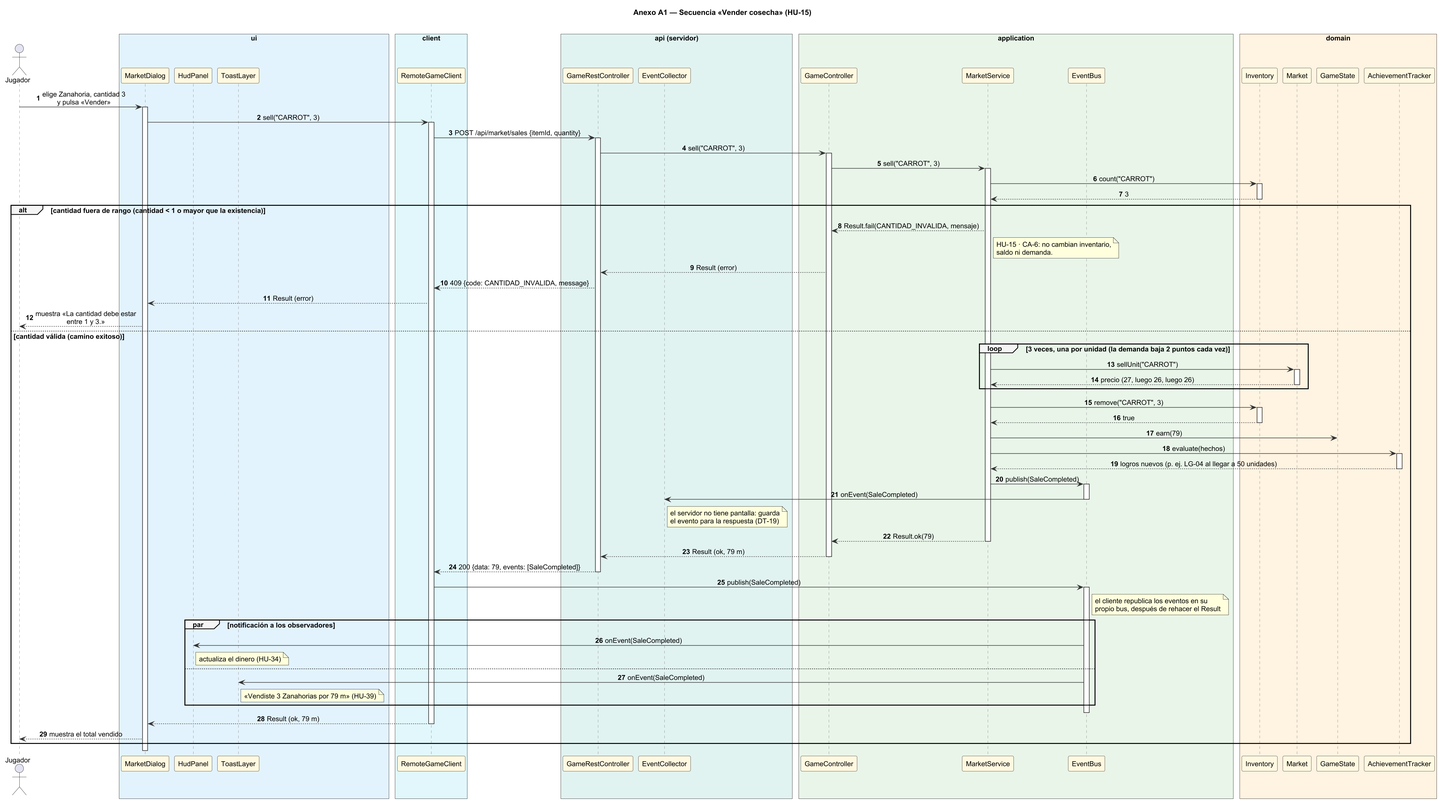
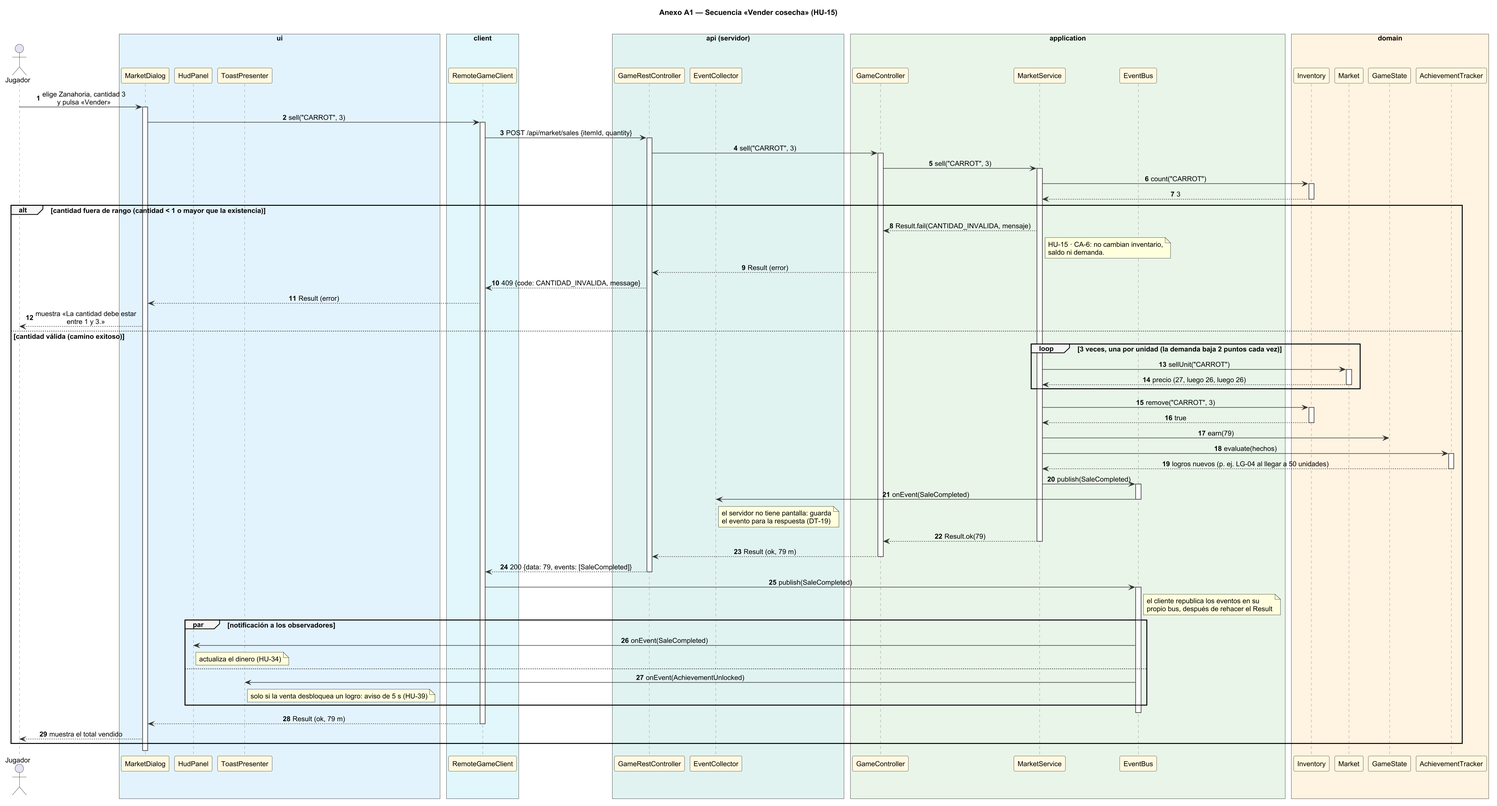
docs(architecture): record phase 5.6 results, extend the API reference, add ASSETS.md and update the logical and development diagrams

diff --git a/docs/TRAZABILIDAD.md b/docs/TRAZABILIDAD.md
@@ -17,7 +17,7 @@
 | RF-08 | Must | HU-10 | Tiempo y clima | CalendarStep, DayPhase, DayPipeline, DayReport, DayService, DayStep, EnergyResetStep, EventBus, ForecastStep, GameCommands, GameController, GameEvent, GameListener, GameMemento, GameRestController, GameScreenPresenter, GameState, Inventory, InventorySnapshot, RemoteGameClient | HU-10: 13 |
 | RF-09 | Must | HU-09 | Tiempo y clima | AutumnState, GameClock, GameDate, GameRules, Season, SeasonState, SpringState, SummerState, WinterState | HU-09: 8 |
 | RF-10 | Must | HU-11 | Tiempo y clima | AutumnState, FixedWeatherStrategy, GameRules, SeasonState, SeasonalWeatherStrategy, SpringState, StateRandom, SummerState, Weather, WeatherCycle, WeatherStrategy, WinterState | HU-11: 8 |
-| RF-11 | Must | HU-12 | Tiempo y clima | WeatherEffectsStep | HU-12: 6 |
+| RF-11 | Must | HU-12 | Tiempo y clima | FarmMap, WeatherEffectsStep | HU-12: 6 |
 | RF-12 | Must | HU-08 | Tiempo y clima | Energy, ErrorCode, GameRules, Messages | HU-08: 6 |
 | RF-13 | Must | HU-13 | Economía | GameRules, Inventory, ItemType | HU-13: 5 |
 | RF-14 | Must | HU-14 | Economía | BuyOfferView, GameCommands, GameController, GameEvent, GameRestController, GameState, Market, MarketDialog, MarketPresenter, MarketService, MarketView, RemoteGameClient | HU-14: 7 |
@@ -30,9 +30,9 @@
 | RF-21 | Must | HU-21 | Construcción y | Animal, AnimalCondition, AnimalSnapshot, AnimalState, AnimalView, AnimalsStep, DayReport, HealthyState, HungryState, SickState | HU-21: 5 |
 | RF-22 | Must | HU-22 | Construcción y | Animal, AnimalService, AnimalsStep, Building, BuildingActionView, BuildingDialog, BuildingPresenter, DayReport, GameCommands, GameController, GameRestController, GameScreen, GameScreenPresenter, HealthyState, HungryState, RemoteGameClient, SickState | HU-22: 10 |
 | RF-23 | Should | HU-23 | Construcción y | Animal, AnimalService, BuildingActionView, BuildingDialog, BuildingPresenter, GameCommands, GameController, GameRestController, GameScreen, RemoteGameClient, SickState | HU-23: 8 |
-| RF-24 | Could | HU-25 | Construcción y | pendiente | HU-25: 0 |
+| RF-24 | Could | HU-25 | Construcción y | FarmMap, FarmService, MapPanel, MapRenderer, Plot, PlotText, PlotView | HU-25: 11 |
 | RF-25 | Should | HU-24 | Construcción y | Building, BuildingService | HU-24: 5 |
-| RF-26 | Must | HU-26 | Progreso | Achievement, AchievementService, AchievementTracker, AchievementView, AchievementsDialog, AchievementsPresenter, AchievementsStep, AnimalService, BuildingService, DayReport, DayService, FarmService, GameCommands, GameController, GameDialogs, GameEvent, GameMemento, GameRestController, GameScreen, GameScreenPresenter, GameState, MarketService, ProgressFacts, ProgressSnapshot, RemoteGameClient | HU-26: 10 |
+| RF-26 | Must | HU-26 | Progreso | Achievement, AchievementService, AchievementTracker, AchievementView, AchievementsDialog, AchievementsPresenter, AchievementsStep, AnimalService, BuildingService, DayReport, DayService, FarmService, GameCommands, GameController, GameDialogs, GameEvent, GameMemento, GameRestController, GameScreen, GameScreenPresenter, GameState, MarketService, ProgressFacts, ProgressSnapshot, RemoteGameClient, ToastPresenter | HU-26: 10 |
 | RF-27 | Should | HU-27 | Progreso | AchievementService, SaveGameService | HU-27: 5 |
 | RF-28 | Must | HU-28 | Progreso | FarmMap, GameCommands, GameController, GameRestController, GameRules, GameSession, GameState, HudView, Plot, ProgressService, RemoteGameClient, Result, StartScreenPresenter, Terrain, ViewMapper | HU-28: 8 |
 | RF-29 | Must | HU-29 | Guardado | Checksum, GameCommands, GameController, GameDialogs, GameRestController, GameScreen, GameScreenPresenter, MongoSaveRepository, RemoteGameClient, SaveCodec, SaveGameService, SaveRepository, SaveSlotView, SlotsDialog, SlotsPresenter | HU-29: 9 |
@@ -45,10 +45,10 @@
 | RF-36 | Must | HU-36 | Interfaz de usuario | GameScreen, GameScreenPresenter, Shortcut, Texts, Tool, ToolBar, ToolModel | HU-36: 20 |
 | RF-37 | Must | HU-37 | Interfaz de usuario | GameCommands, GameController, GameDialogs, GameRestController, GameScreen, InventoryDialog, InventoryGrid, InventoryModel, InventoryView, MarketService, RemoteGameClient, SlotView | HU-37: 9 |
 | RF-38 | Must | HU-38 | Interfaz de usuario | AnimalOfferView, BuyOfferView, GameCommands, GameController, GameDialogs, GameRestController, GameScreen, MarketDialog, MarketPresenter, MarketService, MarketView, RemoteGameClient, SellOfferView | HU-38: 10 |
-| RF-39 | Should | HU-39 | Interfaz de usuario | pendiente | HU-39: 0 |
-| RF-40 | Could | HU-40 | Interfaz de usuario | pendiente | HU-40: 0 |
-| RF-41 | Could | HU-41 | Interfaz de usuario | pendiente | HU-41: 0 |
-| RF-42 | Should | HU-42 | Gestor de assets | pendiente | HU-42: 0 |
+| RF-39 | Should | HU-39 | Interfaz de usuario | GameScreen, GameScreenPresenter, OverlayPanel, ToastKind, ToastLayer, ToastPresenter, ToastQueue, ToastView | HU-39: 10 |
+| RF-40 | Could | HU-40 | Interfaz de usuario | GameScreen, MapPanel, MapRenderer, Particle, SeasonPalette, VisualEffects | HU-40: 8 |
+| RF-41 | Could | HU-41 | Interfaz de usuario | GameScreen, MapPanel, MapRenderer, VisualEffects | HU-41: 7 |
+| RF-42 | Should | HU-42 | Gestor de assets | AssetManager, MapRenderer | HU-42: 8 |
 
 ## 2. Por historia de usuario
 
@@ -65,7 +65,7 @@
 | HU-09 · Calendario y estaciones | 5.1 | Must | 4 | 8 | completa | AutumnState, GameClock, GameDate, GameRules, Season, SeasonState, SpringState, SummerState, WinterState |
 | HU-10 · Terminar el día | 5.1 | Must | 4 | 13 | completa | CalendarStep, DayPhase, DayPipeline, DayReport, DayService, DayStep, EnergyResetStep, EventBus, ForecastStep, GameCommands, GameController, GameEvent, GameListener, GameMemento, GameRestController, GameScreenPresenter, GameState, Inventory, InventorySnapshot, RemoteGameClient |
 | HU-11 · Sorteo de clima y pronóstico | 5.1 | Must | 4 | 8 | completa | AutumnState, FixedWeatherStrategy, GameRules, SeasonState, SeasonalWeatherStrategy, SpringState, StateRandom, SummerState, Weather, WeatherCycle, WeatherStrategy, WinterState |
-| HU-12 · Efectos del clima en los cultivos | 5.3 | Must | 4 | 6 | completa | WeatherEffectsStep |
+| HU-12 · Efectos del clima en los cultivos | 5.3 | Must | 4 | 6 | completa | FarmMap, WeatherEffectsStep |
 | HU-13 · Administrar el inventario | 5.1 | Must | 4 | 5 | completa | GameRules, Inventory, ItemType |
 | HU-14 · Comprar en el mercado | 5.3 | Must | 4 | 7 | completa | BuyOfferView, GameCommands, GameController, GameEvent, GameRestController, GameState, Market, MarketDialog, MarketPresenter, MarketService, MarketView, RemoteGameClient |
 | HU-15 · Vender con precio dinámico | 5.3 | Must | 6 | 12 | completa | CropPricing, FlatPricing, GameCommands, GameController, GameEvent, GameMemento, GameRestController, GameState, Market, MarketDialog, MarketPresenter, MarketService, MarketSnapshot, MarketStep, MarketView, PricingStrategy, RemoteGameClient, SellOfferView |
@@ -78,8 +78,8 @@
 | HU-22 · Producción y recolección | 5.4 | Must | 4 | 10 | completa | Animal, AnimalService, AnimalsStep, Building, BuildingActionView, BuildingDialog, BuildingPresenter, DayReport, GameCommands, GameController, GameRestController, GameScreen, GameScreenPresenter, HealthyState, HungryState, RemoteGameClient, SickState |
 | HU-23 · Curar animales enfermos | 5.4 | Should | 4 | 8 | completa | Animal, AnimalService, BuildingActionView, BuildingDialog, BuildingPresenter, GameCommands, GameController, GameRestController, GameScreen, RemoteGameClient, SickState |
 | HU-24 · Construir y usar el almacén | 5.5 | Should | 4 | 5 | completa | Building, BuildingService |
-| HU-25 · Construir y usar el invernadero | 5.6 | Could | 5 | 0 | sin pruebas | pendiente |
-| HU-26 · Registrar logros | 5.5 | Must | 5 | 10 | completa | Achievement, AchievementService, AchievementTracker, AchievementView, AchievementsDialog, AchievementsPresenter, AchievementsStep, AnimalService, BuildingService, DayReport, DayService, FarmService, GameCommands, GameController, GameDialogs, GameEvent, GameMemento, GameRestController, GameScreen, GameScreenPresenter, GameState, MarketService, ProgressFacts, ProgressSnapshot, RemoteGameClient |
+| HU-25 · Construir y usar el invernadero | 5.6 | Could | 5 | 11 | completa | FarmMap, FarmService, MapPanel, MapRenderer, Plot, PlotText, PlotView |
+| HU-26 · Registrar logros | 5.5 | Must | 5 | 10 | completa | Achievement, AchievementService, AchievementTracker, AchievementView, AchievementsDialog, AchievementsPresenter, AchievementsStep, AnimalService, BuildingService, DayReport, DayService, FarmService, GameCommands, GameController, GameDialogs, GameEvent, GameMemento, GameRestController, GameScreen, GameScreenPresenter, GameState, MarketService, ProgressFacts, ProgressSnapshot, RemoteGameClient, ToastPresenter |
 | HU-27 · Desbloquear edificios por logros | 5.5 | Should | 4 | 5 | completa | AchievementService, SaveGameService |
 | HU-28 · Iniciar nueva partida | 5.1 | Must | 4 | 8 | completa | FarmMap, GameCommands, GameController, GameRestController, GameRules, GameSession, GameState, HudView, Plot, ProgressService, RemoteGameClient, Result, StartScreenPresenter, Terrain, ViewMapper |
 | HU-29 · Guardar partida | 5.5 | Must | 4 | 9 | completa | Checksum, GameCommands, GameController, GameDialogs, GameRestController, GameScreen, GameScreenPresenter, MongoSaveRepository, RemoteGameClient, SaveCodec, SaveGameService, SaveRepository, SaveSlotView, SlotsDialog, SlotsPresenter |
@@ -92,9 +92,9 @@
 | HU-36 · Herramientas y clic sobre parcelas | 5.2 | Must | 5 | 20 | completa | GameScreen, GameScreenPresenter, Shortcut, Texts, Tool, ToolBar, ToolModel |
 | HU-37 · Inventario en grilla | 5.3 | Must | 4 | 9 | completa | GameCommands, GameController, GameDialogs, GameRestController, GameScreen, InventoryDialog, InventoryGrid, InventoryModel, InventoryView, MarketService, RemoteGameClient, SlotView |
 | HU-38 · Mercado modal | 5.3 | Must | 4 | 10 | completa | AnimalOfferView, BuyOfferView, GameCommands, GameController, GameDialogs, GameRestController, GameScreen, MarketDialog, MarketPresenter, MarketService, MarketView, RemoteGameClient, SellOfferView |
-| HU-39 · Notificaciones (toasts) | 5.6 | Should | 4 | 0 | sin pruebas | pendiente |
-| HU-40 · Efectos visuales de estación y clima | 5.6 | Could | 4 | 0 | sin pruebas | pendiente |
-| HU-41 · Animaciones suaves | 5.6 | Could | 4 | 0 | sin pruebas | pendiente |
-| HU-42 · Carga de sprites con respaldo vectorial | 5.6 | Should | 4 | 0 | sin pruebas | pendiente |
+| HU-39 · Notificaciones (toasts) | 5.6 | Should | 4 | 10 | completa | GameScreen, GameScreenPresenter, OverlayPanel, ToastKind, ToastLayer, ToastPresenter, ToastQueue, ToastView |
+| HU-40 · Efectos visuales de estación y clima | 5.6 | Could | 4 | 8 | completa | GameScreen, MapPanel, MapRenderer, Particle, SeasonPalette, VisualEffects |
+| HU-41 · Animaciones suaves | 5.6 | Could | 4 | 7 | completa | GameScreen, MapPanel, MapRenderer, VisualEffects |
+| HU-42 · Carga de sprites con respaldo vectorial | 5.6 | Should | 4 | 8 | completa | AssetManager, MapRenderer |
 
-**Resumen:** 37 de 42 historias con todas sus pruebas; 327 pruebas `HUxx_` en total.
+**Resumen:** 42 de 42 historias con todas sus pruebas; 371 pruebas `HUxx_` en total.

diff --git a/docs/ARQUITECTURA.md b/docs/ARQUITECTURA.md
@@ -55,9 +55,9 @@ edu.ucc.farmsim
 ├─ GameInfo                             nombre visible y versión del juego (única constante, RNF-12)
 ├─ ui
 │  ├─ screens      MainWindow, StartScreen, GameScreen, ScreenRouter
-│  ├─ components   HudPanel, ToolBar, InventoryGrid, MarketDialog, SlotDialog, AchievementsDialog, ToastLayer
-│  ├─ render       MapPanel, MapRenderer, ParticleSystem, DayNightTint
-│  ├─ assets       AssetManager, VectorFallback
+│  ├─ components   HudPanel, ToolBar, InventoryGrid, MarketDialog, SlotsDialog, AchievementsDialog, ToastPresenter, ToastQueue, ToastLayer
+│  ├─ render       MapPanel, MapRenderer, VisualEffects, Particle, SeasonPalette
+│  ├─ assets       AssetManager (el respaldo vectorial vive en `MapRenderer`)
 │  └─ theme        Palette, Texts (cadenas de interfaz en español)
 ├─ client                               (cliente HTTP)
 │     RemoteGameClient (implementa GameCommands), EventDecoder
@@ -175,7 +175,7 @@ Como en la secuencia [A1](diagramas/A1_secuencia_vender_cosecha.png):
 | **5.3** Clima y economía | HU-12, 37, 14, 15, 16, 38 (**23**) | efectos del clima en el *pipeline*, `Market`, `PricingStrategy` ×2, `MarketService`, paso de mercado, `InventoryGrid`, `MarketDialog` | inventario en grilla y mercado modal | Strategy (precios) | **3** (helada), **4** (saturación) |
 | **5.4** Construcción y animales | HU-18 a 24, 17 (**23**) | `Building`, `BuildingBuilder` ×4, `BuildingDirector`, `Animal`, `AnimalState` ×3, `BuildingService`, `AnimalService`, paso de animales, `DaySummary` | diálogo de construcción y panel del edificio (alimentar, recolectar, curar) | Builder, State (animal) | **5** (animal enfermo no produce) |
 | **5.5** Progresión y persistencia | HU-26, 27, 29, 30, 31, 32 (**22**) | `AchievementTracker`, `ProgressFacts`, desbloqueos, `GameMemento`, `GameStateValidator`, `SaveRepository`, `MongoSaveRepository`, `SaveCodec`, `Checksum`, `SaveGameService`; **pruebas de rendimiento a plena carga** (HU-10 · CA-3, HU-29 · CA-4, HU-30 · CA-4) | diálogos de ranuras, logros y atajos `F5`/`F9` | Memento (completo: documento en MongoDB) | **6** (guardar → cargar idéntico), **7** (partida dañada o inexistente) |
-| **5.6** Interfaz visual y extras *(recortable)* | HU-39, 42, 25, 40, 41 (**19**) | `ToastLayer`, `AssetManager` y respaldo vectorial, invernadero, efectos (`ParticleSystem`, `DayNightTint`), animaciones con `Timer`; `docs/ASSETS.md`, README final y matriz de trazabilidad completa; decisión sobre FlatLaf | pulido visual | Observer (completado) | — |
+| **5.6** Interfaz visual y extras *(recortable)* | HU-39, 42, 25, 40, 41 (**19**) | `ToastQueue`, `ToastPresenter`, `ToastLayer`, `AssetManager` y respaldo vectorial, invernadero, efectos (`VisualEffects`, `Particle`, `SeasonPalette`), animaciones con `Timer`; `docs/ASSETS.md`, README final y matriz de trazabilidad completa; decisión sobre FlatLaf | pulido visual | Observer (completado) | — **(hecha)** |
 
 **Qué se actualiza al cerrar cada fase:** el diagrama de clases si aparecen clases nuevas con responsabilidad estructural, el de desarrollo si cambia un paquete o una dependencia (lo comprueba `tools/check_diagrams.py`) y la matriz de trazabilidad (RF → HU → diagrama → clases → pruebas).
 
@@ -448,3 +448,40 @@ Ajustes surgidos al implementar: (1) `Main` se declara como capa «Composition»
 | HU-29 · CA-2 | la prueba contra un MongoDB real que rechaza o no responde (la simulada sí está) | cuando haya MongoDB |
 
 **Diagramas:** `03_vista_logica` y `04_vista_desarrollo` incluyen `AchievementService`, `GameStateValidator`, `SaveCodec`, `Checksum`, `SlotInfo` y sus dependencias (`domain.game → crop`, `domain.save → time`); las seis vistas se volvieron a renderizar. `check_diagrams.py` y `check_imports.py` terminan sin errores.
+
+## 17. Estado de la Fase 5.6 (interfaz visual y extras)
+
+**Historias cerradas (5 historias, 19 puntos):** HU-25, 39, 40, 41 y 42, más los criterios que esperaban al invernadero (HU-10 · CA-3, HU-29 · CA-4 y HU-30 · CA-4 con los 9 cultivos protegidos). `python tools/traceability.py --upto 5.6` termina sin errores. Con esta fase **las 42 historias están implementadas**.
+
+| Resultado | Valor |
+|---|---|
+| Pruebas | 486 en verde y 2 omitidas con aviso (las de MongoDB real) |
+| Cobertura de líneas (JaCoCo) | **dominio 97,3 %**, **aplicación 98,4 %**, infraestructura 96,1 %, UI 91,5 %, API 96,6 %, cliente 94,0 % (barrera: 70 % en dominio y aplicación) |
+| Patrones aplicados | Observer completado: `ToastPresenter` (`ConcreteObserver`, registrado en `patterns.txt`) |
+| Rendimiento | un cuadro con partículas activas tarda menos de 33 ms (≥ 30 FPS, `HU40_ca4`); la plena carga ahora incluye los 9 cultivos del invernadero |
+| API | `PlotView` añade `sheltered` (ver [`API.md`](API.md) v0.5); no hay rutas nuevas |
+| Verificadores | `check_hu.py`, `check_diagrams.py`, `check_imports.py` y `traceability.py` terminan sin errores |
+
+**Decisiones tomadas al implementar:**
+
+| # | Decisión | Motivo |
+|---|---|---|
+| D-52 | Una parcela «protegida» se deduce del edificio que la cubre (`Plot.isSheltered()`); no se guarda nada nuevo en el memento y el validador acepta cultivos sobre parcelas de un invernadero | RN-22 y RN-32: el estado ya contiene el edificio |
+| D-53 | Dentro del invernadero la tolerancia sin riego es siempre 3 días y regar cuesta 1 de energía aunque el clima sea Sequía; la lluvia no riega, la helada y el cambio de estación no marchitan | RN-22 · «inmunes a Helada y Sequía» y HU-25 · CA-3 y CA-4 |
+| D-54 | Los avisos son un Observer: `ToastPresenter` escucha el bus (logros y cambio de estación) y recibe de `GameScreenPresenter` los rechazos y avisos propios; `ToastQueue` (sin Swing, con reloj inyectado) guarda 4 visibles y el resto en cola; `ToastLayer` solo dibuja y no captura el ratón. La barra de estado se mantiene | HU-39; la barra sigue siendo el rastro del último mensaje |
+| D-55 | Un aviso dura 3 s (5 s el de logro) a opacidad completa y luego se desvanece 0,4 s; el tiempo cuenta desde que se hace visible, no desde que se publicó | HU-39 · CA-1 y CA-3 |
+| D-56 | `VisualEffects` (paleta de estación, lluvia, nieve, tinte de noche, cuadros de animales, crecimiento de cultivos) es un modelo sin Swing que solo recibe lo que la vista ya sabe y **nunca llama al juego**; `MapPanel` lo mueve con un `javax.swing.Timer` que solo corre mientras algo se mueve | HU-40 · CA-3 y HU-41 · CA-3 y CA-4 |
+| D-57 | La prueba `HU35_ca5` («no usa un *timer* para sondear») pasó a comprobar lo que de verdad importa: el panel nunca pide el mapa por su cuenta y su temporizador está detenido si nada se mueve | El temporizador de HU-41 es de dibujo, no de sondeo |
+| D-58 | `AssetManager` lee `crops/<CULTIVO>_<ETAPA>.png` y `animals/<ANIMAL>_<CUADRO>.png` de `assets/`, guarda cada archivo una vez y, si falta, `MapRenderer` dibuja el vector. **No se incluye ningún sprite**; el primer faltante se registra como aviso y los demás en nivel FINE | HU-42; evita 30 avisos por cuadro en una instalación sin imágenes |
+| D-59 | La casilla «Efectos» apaga a la vez los efectos y las animaciones; con ella apagada el mapa se dibuja con su aspecto base | HU-40 · CA-4 |
+| D-60 | **FlatLaf no se adopta:** el aspecto por defecto de Swing con el mapa vectorial basta, y evita una dependencia más que verificar | Alcance y RNF-02 (arranque) |
+
+**Criterios cubiertos en parte:**
+
+| Criterio | Qué falta | Cuándo |
+|---|---|---|
+| HU-29 · CA-2 | la prueba contra un MongoDB real que rechaza o no responde (la simulada sí está) | cuando haya MongoDB |
+| RNF-02 · RT-09 | medir el arranque del `.jar` (≤ 5 s) en una máquina limpia | cierre del proyecto |
+
+**Diagramas:** `03_vista_logica` y `04_vista_desarrollo` incluyen `ToastPresenter`, `ToastQueue`, `ToastLayer`, `VisualEffects`, `Particle`, `SeasonPalette` y `AssetManager`; la secuencia anexa cambió `ToastLayer` por `ToastPresenter`. Las vistas se volvieron a renderizar.
+

diff --git a/README.md b/README.md
@@ -17,9 +17,9 @@ Simulador de granja 2D **por turnos** (un turno = un día), hecho en Java con Sw
 | **5.3** | Clima y economía: efectos del clima, mercado con precios dinámicos, tendencia, inventario en grilla y mercado modal (6 historias) | **hecha** |
 | **5.4** | Construcción y animales: construir, comprar y alimentar animales, estados, producción, curación, resumen del día y Almacén (8 historias) | **hecha** |
 | **5.5** | Progresión y persistencia: logros con recompensa, edificios desbloqueados, guardar, cargar y listar ranuras en MongoDB, rechazo de partidas dañadas y pruebas de rendimiento (6 historias) | **hecha** |
-| 5.6 | Pulido visual, notificaciones, invernadero y extras | pendiente |
+| **5.6** | Avisos (*toasts*), invernadero, efectos de estación y clima, animaciones y carga de sprites con respaldo vectorial (5 historias) | **hecha** |
 
-Hoy el juego abre la **pantalla de inicio** (Nueva partida, Cargar, Salir) y una pantalla de juego con la barra superior (dinero, fecha, clima, pronóstico y energía) y el botón «Terminar día». Desde la fase 5.2 también tiene el **mapa de la granja**: eliges una herramienta (teclas `1` a `5` o la barra), eliges la semilla y haces clic en una parcela de tierra para sembrar, regar y cosechar; `Enter` termina el día. Desde la 5.3 el clima importa (la lluvia riega, la helada marchita), `I` abre el **inventario** en grilla (clic en una semilla para elegirla) y `M` el **mercado** con las pestañas Comprar y Vender, precios que cambian con la temporada y la saturación, y la tendencia ▲ ▼ ▬. Desde la 5.4 puedes **construir** (herramienta `4`: clic en una parcela de hierba libre y eliges el edificio), comprar gallinas y vacas en el mercado, **alimentar** (herramienta `5` o el panel del edificio), **recolectar** (herramienta `3` sobre el edificio) y curar a los animales enfermos desde el panel que se abre al pulsar un edificio; al terminar el día aparece el **resumen del día**. Desde la 5.5 `L` abre los **logros** (con su recompensa y tu avance), `F5` guarda y `F9` carga en la última ranura usada (si no hay ninguna se abre el diálogo de **ranuras**), y «Cargar» en la pantalla de inicio te deja elegir entre tres ranuras. Las partidas se guardan en MongoDB (`valleverde.mongo.uri`); si no responde, el juego sigue y avisa.
+Hoy el juego abre la **pantalla de inicio** (Nueva partida, Cargar, Salir) y una pantalla de juego con la barra superior (dinero, fecha, clima, pronóstico y energía) y el botón «Terminar día». Desde la fase 5.2 también tiene el **mapa de la granja**: eliges una herramienta (teclas `1` a `5` o la barra), eliges la semilla y haces clic en una parcela de tierra para sembrar, regar y cosechar; `Enter` termina el día. Desde la 5.3 el clima importa (la lluvia riega, la helada marchita), `I` abre el **inventario** en grilla (clic en una semilla para elegirla) y `M` el **mercado** con las pestañas Comprar y Vender, precios que cambian con la temporada y la saturación, y la tendencia ▲ ▼ ▬. Desde la 5.4 puedes **construir** (herramienta `4`: clic en una parcela de hierba libre y eliges el edificio), comprar gallinas y vacas en el mercado, **alimentar** (herramienta `5` o el panel del edificio), **recolectar** (herramienta `3` sobre el edificio) y curar a los animales enfermos desde el panel que se abre al pulsar un edificio; al terminar el día aparece el **resumen del día**. Desde la 5.5 `L` abre los **logros** (con su recompensa y tu avance), `F5` guarda y `F9` carga en la última ranura usada (si no hay ninguna se abre el diálogo de **ranuras**), y «Cargar» en la pantalla de inicio te deja elegir entre tres ranuras. Desde la 5.6 aparecen **avisos** que se desvanecen (logros, errores y cambio de estación), el **invernadero** permite sembrar en cualquier estación y protege de la helada y la sequía (la lluvia no lo riega), el mapa cambia de color con la estación, muestra lluvia, nieve, sol de sequía y copo de helada, oscurece al terminar el día y mueve a los animales y a los cultivos que crecen; la casilla «Efectos» apaga todo eso sin afectar al juego. Las partidas se guardan en MongoDB (`valleverde.mongo.uri`); si no responde, el juego sigue y avisa.
 
 ## Requisitos
 
@@ -83,7 +83,7 @@ edu.ucc.farmsim
 | Strategy | `PricingStrategy` con `CropPricing` y `FlatPricing` | HU-15 | hecho (5.3) |
 | Observer | `EventBus`, `GameListener`, `HudModel`, `HudPanel` | HU-10, HU-34 | hecho (5.1) |
 | Observer | `MapPanel` | HU-35 | hecho (5.2) |
-| Observer | `ToastLayer` | HU-39 | 5.6 |
+| Observer | `ToastPresenter` (y `ToastQueue`/`ToastLayer` que dibujan lo que recibe) | HU-39 | hecho (5.6) |
 | Memento | `GameState` (originador), `GameMemento`, `SaveGameService` (*caretaker*) | HU-10, HU-29, HU-30 | hecho (5.5): guardado en MongoDB |
 | Observer | `InventoryModel` | HU-37 | hecho (5.3) |
 | Observer | `EventCollector` (el servidor guarda los eventos para la respuesta) | RNF-15 | hecho (5.2b) |
@@ -103,13 +103,14 @@ edu.ucc.farmsim
 | [`docs/HISTORIAS_DE_USUARIO.md`](docs/HISTORIAS_DE_USUARIO.md) | 42 historias con criterios Dado/Cuando/Entonces y backlog por fases |
 | [`docs/DIAGRAMAS.md`](docs/DIAGRAMAS.md) | las 5 vistas del PPTX del curso y una secuencia anexa |
 | [`docs/API.md`](docs/API.md) | rutas REST, cuerpos, eventos y código HTTP de cada rechazo |
+| [`docs/ASSETS.md`](docs/ASSETS.md) | recursos gráficos, nombres de sprites y licencias (hoy: ninguno, todo es vectorial) |
 | [`docs/ARQUITECTURA.md`](docs/ARQUITECTURA.md) | capas, paquetes, decisiones técnicas y plan por fases |
 | [`docs/PLAN_DE_PRUEBAS.md`](docs/PLAN_DE_PRUEBAS.md) | estrategia de pruebas y criterios de salida |
 | [`docs/TRAZABILIDAD.md`](docs/TRAZABILIDAD.md) | RF → HU → componente → clases → pruebas (generado) |
 
 ## Assets gráficos
 
-Todavía no hay imágenes: el juego se dibujará con gráficos vectoriales y, cuando se agreguen sprites, serán únicamente de licencia **CC0 o CC-BY** y se registrarán en `docs/ASSETS.md` y en esta sección (Fase 5.6). No se usan sprites ni nombres de juegos comerciales.
+No hay imágenes: el juego se dibuja con gráficos vectoriales y, si se agregan sprites (el `AssetManager` los usa y, si falta alguno, dibuja el vector), serán únicamente de licencia **CC0 o CC-BY** y se registrarán en [`docs/ASSETS.md`](docs/ASSETS.md). No se usan sprites ni nombres de juegos comerciales.
 
 ## Convenciones
 

diff --git a/docs/DIAGRAMAS.md b/docs/DIAGRAMAS.md
@@ -60,7 +60,7 @@
 | **Factory Method** | Creador `CropFactory` → `CarrotFactory`, `PumpkinFactory` (y 3 más) | HU-01 | Cada cultivo se crea con sus propios valores (RN-05); sembrar solo conoce `CropFactory`, así que un cultivo nuevo no obliga a tocar `FarmService` |
 | **Builder** | `BuildingBuilder` (`CoopBuilder`, `GreenhouseBuilder`…) + `BuildingDirector` | HU-18 | Un edificio tiene muchos parámetros (tipo, posición, tamaño, capacidad, costo) y validaciones de colocación (RN-20, RN-21); se construye paso a paso y se valida al final |
 | **Memento** | Originador `GameState`; recuerdo `GameMemento`; cuidador `SaveGameService` | HU-29, HU-30, HU-31 | Guardar y cargar requieren una instantánea inmutable que no exponga el estado interno; así «cargar un archivo inválido sin alterar la partida» es natural (se construye aparte y solo reemplaza al actual si todo es válido, RN-33) |
-| **Observer** | Sujeto `EventBus`; observador `GameListener`; concretos `HudPanel`, `MapPanel`, `ToastLayer` | HU-34, HU-35, HU-39 | La UI debe actualizarse por eventos y no consultando en bucle (R-04); el bus desacopla `application` de `ui` |
+| **Observer** | Sujeto `EventBus`; observador `GameListener`; concretos `HudPanel`, `MapPanel`, `ToastPresenter` | HU-34, HU-35, HU-39 | La UI debe actualizarse por eventos y no consultando en bucle (R-04); el bus desacopla `application` de `ui` |
 
 Cada clase que implemente un patrón llevará el Javadoc `Pattern: <nombre> — Role: <rol>` (RNF-13).
 
@@ -88,7 +88,7 @@ Cada clase que implemente un patrón llevará el Javadoc `Pattern: <nombre> — 
 ![Secuencia Vender cosecha](diagramas/A1_secuencia_vender_cosecha.png)
 
 - **Cubre:** HU-15 (CA-1 y CA-6), HU-26 (LG-04), HU-34, HU-38 y HU-39; RF-15, RF-26, RF-34, RF-38 y RF-39; RN-14, RN-15, RN-17, RN-18 y RN-28.
-- **Camino exitoso:** 3 Zanahorias en Primavera con demanda 100 → `sell` viaja por HTTP (`POST /api/market/sales`) → `sellUnit` ×3 (27 + 26 + 26) → `remove` → `earn(79)` → `evaluate` → `publish(SaleCompleted)` → el servidor devuelve `200 {data: 79, events}` → el cliente republica el evento → `onEvent` en `HudPanel` y `ToastLayer` → `Result.ok(79)`.
+- **Camino exitoso:** 3 Zanahorias en Primavera con demanda 100 → `sell` viaja por HTTP (`POST /api/market/sales`) → `sellUnit` ×3 (27 + 26 + 26) → `remove` → `earn(79)` → `evaluate` → `publish(SaleCompleted)` → el servidor devuelve `200 {data: 79, events}` → el cliente republica el evento → `onEvent` en `HudPanel` y, si la venta desbloquea un logro, en `ToastPresenter` → `Result.ok(79)`.
 - **Camino de error:** cantidad fuera de rango → `Result.fail(CANTIDAD_INVALIDA)` → respuesta HTTP de error y el mismo `Result` en el cliente, sin modificar inventario, saldo ni demanda.
 - **Regla del taller:** cada mensaje sólido corresponde a una operación del diagrama de clases (verificado por script).
 - **Demuestra la regla de capas:** `MarketDialog` → `RemoteGameClient` → HTTP → `GameRestController` → `GameController` → `MarketService` → dominio; el controlador nunca llama a un repositorio y la UI recibe solo un `Result` (nunca una excepción).

diff --git a/docs/API.md b/docs/API.md
@@ -1,6 +1,6 @@
 # API REST — Valle Verde
 
-> **Versión 0.4 · 2026-11-22 · Fase 5.5**
+> **Versión 0.5 · 2026-11-22 · Fase 5.6**
 > Describe las rutas que el servidor Spring Boot ofrece al cliente Swing (RNF-15, AR-12). El servidor escucha solo en `127.0.0.1`; con `java -jar farmsim.jar` el puerto es libre y lo conoce el cliente, y con `--server --port 8080` es el indicado. Hay **una partida por servidor** y no hay sesión de usuario.
 
 ## 1. Convenciones
@@ -48,6 +48,8 @@ Las columnas de tipo usan los *records* de `application.dto` (`HudView`, `PlotVi
 `hasGameInProgress()` no tiene ruta propia: el cliente lo deduce de `GET /api/game` (`404 SIN_PARTIDA` = no hay partida).
 
 El **resumen del día** no tiene ruta: `POST /api/game/days` añade a sus eventos `DaySummaryReady` con `DaySummaryView` (ingresos, gastos, saldo anterior y nuevo y los hechos del día). `GET /api/market` incluye ahora los animales en venta y `GET /api/farm/map` los edificios con sus animales. Un edificio o un animal que no existe responde `500 ERROR_INTERNO` (nunca lo envía la interfaz).
+
+`PlotView` incluye `sheltered` (`true` si un invernadero cubre la parcela, RN-22): en esas parcelas `POST …/crop` acepta sembrar fuera de estación y sobre hierba, y `…/watering` cuesta 1 de energía aunque haya Sequía.
 
 Cargar una ranura rechazada **no cambia la partida en curso** (RN-33): `404 ARCHIVO_INEXISTENTE` si no hay documento, `422 ARCHIVO_CORRUPTO` si el texto, la suma de control o los datos no son válidos, `422 VERSION_NO_SOPORTADA` y `503 ERROR_ES` si MongoDB no responde en 2 s. Una ranura fuera de 1 a 3 responde `500 ERROR_INTERNO` (la interfaz nunca la envía). Los logros desbloqueados viajan como evento `AchievementUnlocked` en la respuesta de la orden que los causó.
 
